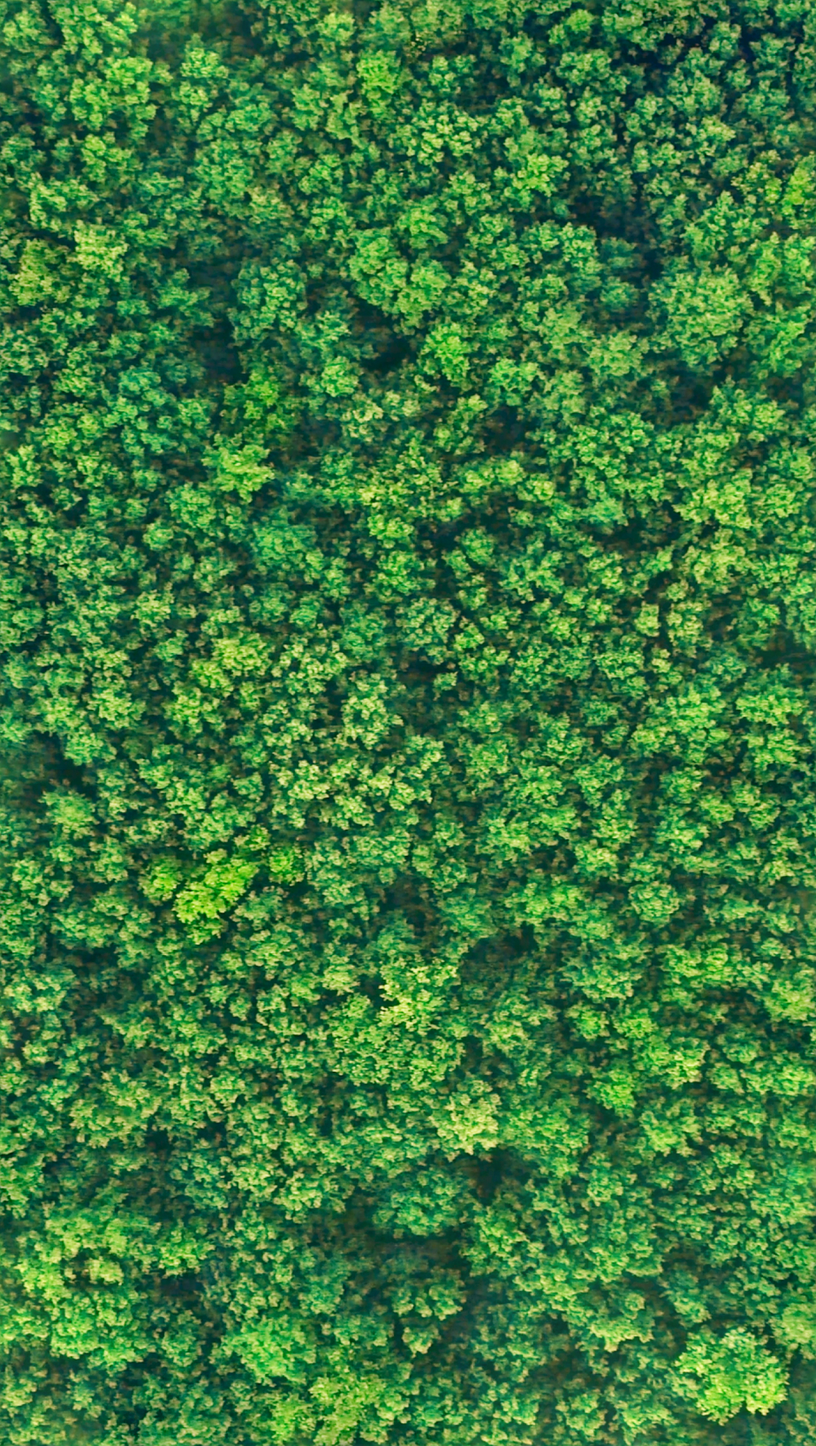
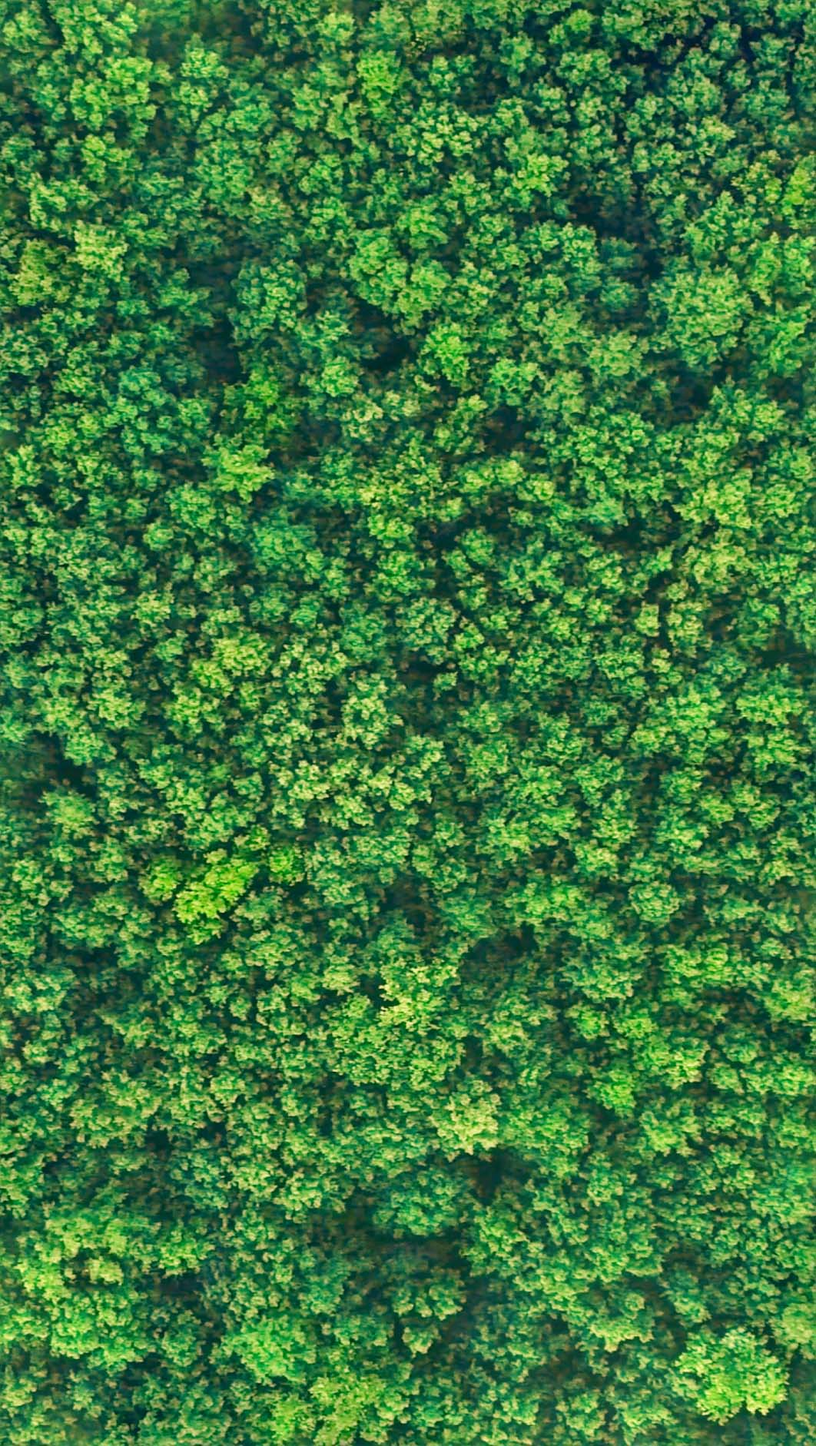
Image optimizations

diff --git a/content/pages/en-US/index.md b/content/pages/en-US/index.md
@@ -293,7 +293,7 @@ blocks:
       textStyles: 'text-black font-1 undefined mb-0 '
     image:
       src: >-
-        https://res.cloudinary.com/protocolai/image/upload/v1660077778/sustainable-blockchain/icon-tree-mask_lhgbtw.png
+        https://res.cloudinary.com/protocolai/image/upload/w_512/q_40/v1660077778/sustainable-blockchain/icon-tree-mask_lhgbtw.jpg
     label: ''
     headline: Join us in Bogotá for this important gathering.
     subhead: ''

diff --git a/content/pages/es/index.md b/content/pages/es/index.md
@@ -293,7 +293,7 @@ blocks:
       textStyles: 'text-black font-1 undefined mb-0 '
     image:
       src: >-
-        https://res.cloudinary.com/protocolai/image/upload/v1660077778/sustainable-blockchain/icon-tree-mask_lhgbtw.png
+        https://res.cloudinary.com/protocolai/image/upload/w_512/q_40/v1660077778/sustainable-blockchain/icon-tree-mask_lhgbtw.jpg
     label: ''
     headline: Join us in Bogotá for this important gathering.
     subhead: ''
